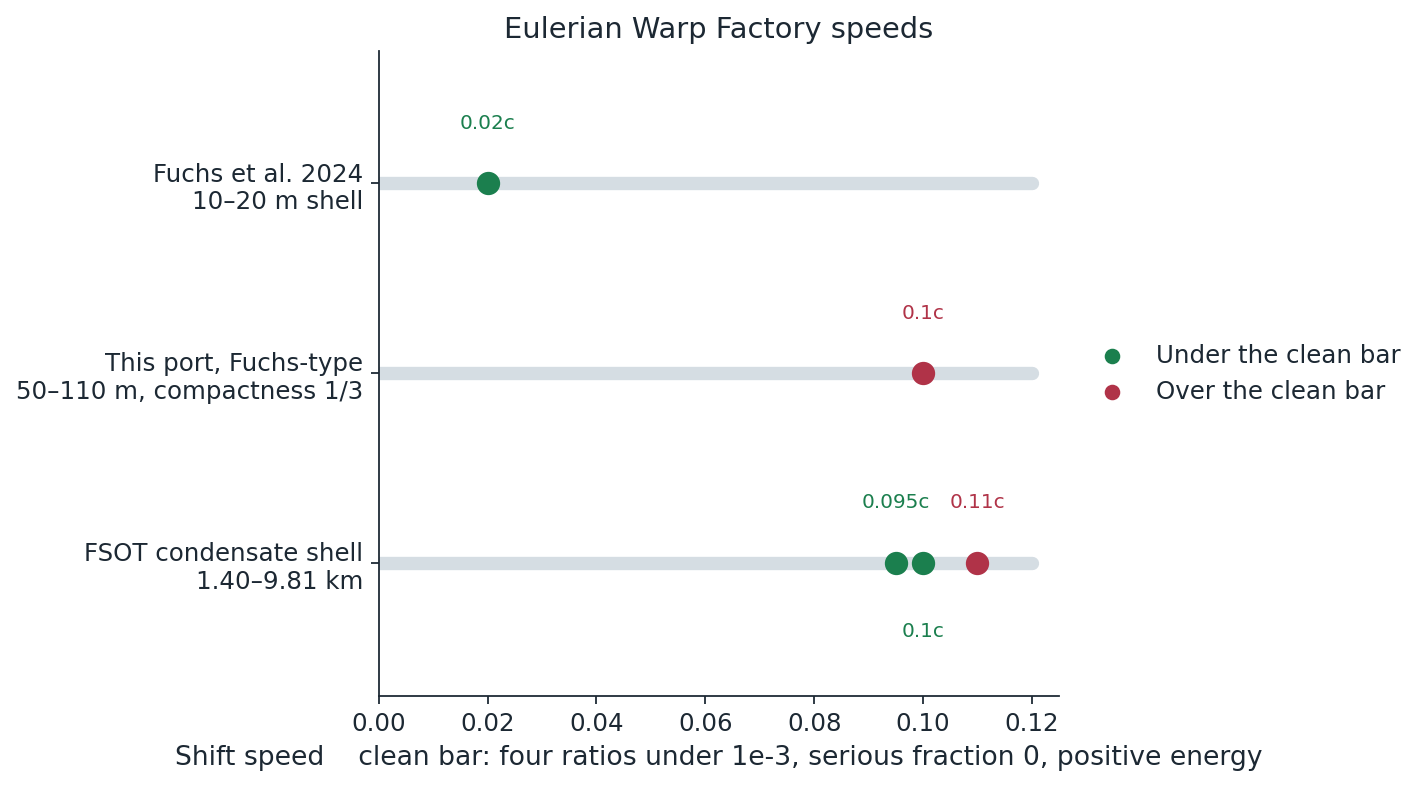
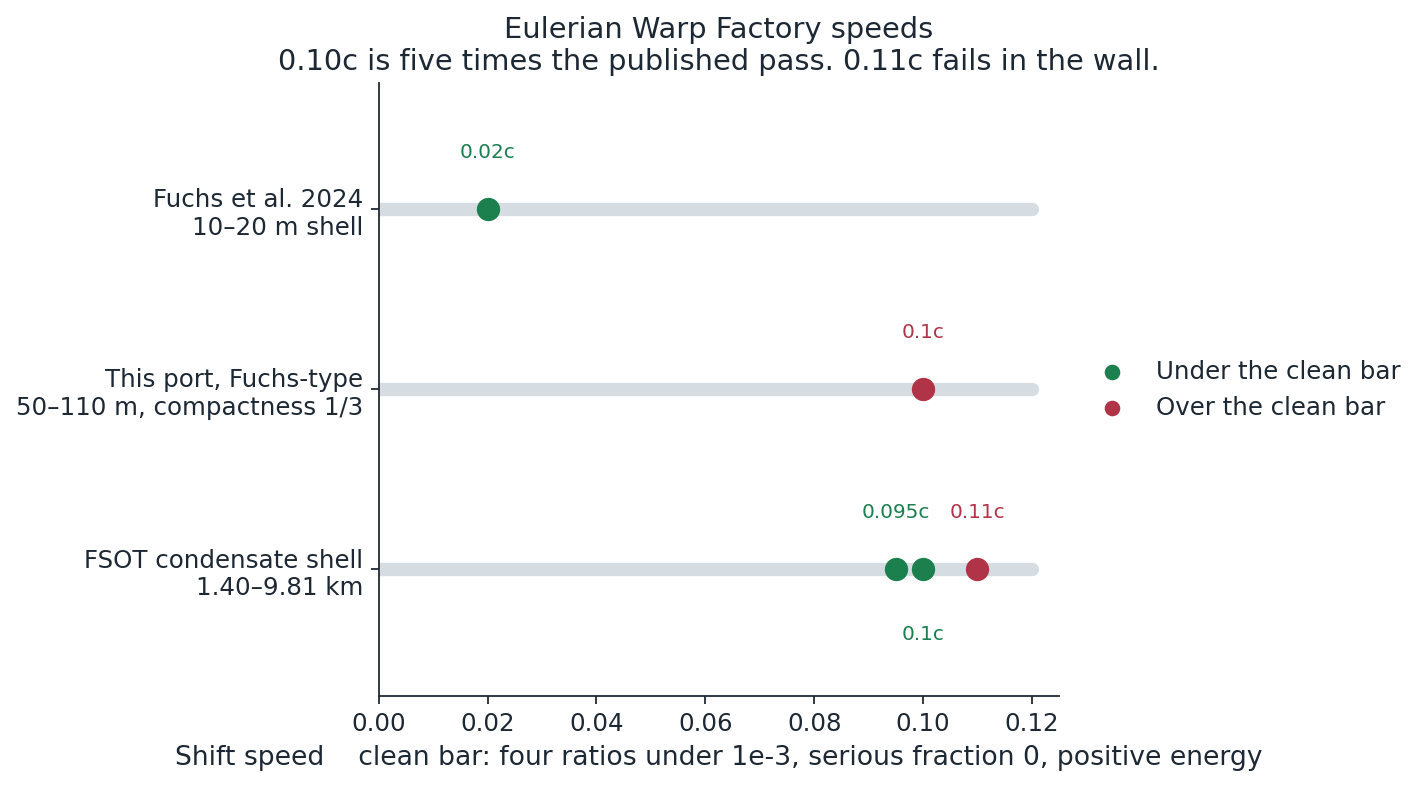
Lead the record with the 0.10c pass against the published 0.02c shell.
The 83.4 m grid agrees after the flat ball is restored. The same restoration at 0.11c still fails in the outer wall, dominant ratio 0.177 at 7,720 m.

diff --git a/python/stress_mix.py b/python/stress_mix.py
@@ -6,6 +6,7 @@ The pin check runs when FSOT_VENDOR points at a directory that contains
 fsot_compute.py and fsot_dynamics.py (the FSOT 2.1 AEB2AD vendor tree).
 The algebra, the shell file, and the two scored logs do not need it.
 data/dial_mix_fine.txt is checked as a recorded failure, not as a pass.
+data/dial_flatball_11_fine.txt is the 0.11c wall on the 83.4 m grid, also a recorded failure.
 """
 
 from __future__ import annotations
@@ -22,6 +23,7 @@ LOG = ROOT / "data" / "dial_mix.txt"
 FINE = ROOT / "data" / "dial_mix_fine.txt"
 CENTER = ROOT / "data" / "dial_center.txt"
 FLAT = ROOT / "data" / "dial_flatball.txt"
+FLAT11 = ROOT / "data" / "dial_flatball_11_fine.txt"
 C_ROUTE = 2.99792e8
 G_ROUTE = 6.674e-11
 C_WF = 2.99792458e8
@@ -170,6 +172,22 @@ def flat_log() -> None:
     check("83.4 m restores four cells", "== raw N=320 v=0.10  minWeak=-1.476078e-03 nFlat=4" in text, "dial_flatball.txt")
 
 
+def flat11_log() -> None:
+    text = FLAT11.read_text(encoding="utf-8")
+    check("0.11c fine flat ball finished", "flat ball done" in text, "dial_flatball_11_fine.txt")
+    check(
+        "83.4 m 0.11c wall is the recorded failure",
+        "null=3.549428e-02 weak=3.549428e-02 strong=3.549428e-02 dom=1.771462e-01" in text
+        and "FAIL" in text,
+        "dial_flatball_11_fine.txt",
+    )
+    check(
+        "83.4 m 0.11c restores four cells",
+        "== raw N=320 v=0.11  minWeak=-3.549428e-02 nFlat=4" in text,
+        "dial_flatball_11_fine.txt",
+    )
+
+
 def main() -> int:
     algebra()
     shell_file()
@@ -178,6 +196,7 @@ def main() -> int:
     fine_log()
     center_log()
     flat_log()
+    flat11_log()
     print(f"RESULT  {len(failures)} failures")
     return 1 if failures else 0
 

diff --git a/python/figures.py b/python/figures.py
@@ -115,7 +115,7 @@ def fig_speed():
     ax.set_xlim(0, 0.125)
     ax.set_ylim(-0.7, 2.7)
     ax.invert_yaxis()
-    ax.set_title("Eulerian Warp Factory speeds")
+    ax.set_title("Eulerian Warp Factory speeds\n0.10c is five times the published pass. 0.11c fails in the wall.")
     ax.scatter([], [], color=PASS, label="Under the clean bar")
     ax.scatter([], [], color=FAIL, label="Over the clean bar")
     ax.legend(frameon=False, loc="center left", bbox_to_anchor=(1.01, 0.5))

diff --git a/README.md b/README.md
@@ -4,13 +4,13 @@
 **License:** Apache-2.0  
 **Pin:** FSOT 2.1 AEB2AD, from [FSOT-2.1-Lean](https://github.com/dappalumbo91/FSOT-2.1-Lean)
 
-A constant-speed warp shell, scored in Warp Factory. On a 166.8 m grid the Eulerian energy conditions stay under the clean bar at **0.10c**. The published Warp Factory pass, Fuchs et al. 2024, is **0.02c** on a 10–20 m shell. This shell is 491 times larger in outer radius, 736 times heavier, and about 1.8×10⁵ times less dense.
+A constant-speed warp shell, scored in Warp Factory. The published positive-mass pass in this solver is Fuchs et al. 2024: **0.02c** on a 10–20 m shell. This condensate shell is clean at **0.10c**, five times that speed, on the 166.8 m grid and on the 83.4 m grid once the flat cavity is given its continuum value of zero. The shell is 491 times larger in outer radius, 736 times heavier, and about 1.8×10⁵ times less dense.
 
 The raw 83.4 m difference misses that bar on four samples at 59 m. Those samples sit inside a ball, r < 87.55 m, where the constructed metric is exactly flat, so the continuum stress-energy is zero. The fourth-order stencil reaches outside the ball and reports a false negative. Setting those four cells back to zero puts the 83.4 m score under the bar. The worst remaining weak ratio is 4.006×10⁻⁷, in the exterior mass skirt. The wall is quiet on both grids. This is a simulation of a coast at constant speed.
 
 ![Eulerian speeds](figures/speed_limit.png)
 
-The green marks are under the clean bar. The red marks are over it. The top row is the published pass. The middle row is a larger copy of that kind of shell, scored in this port, which fails at 0.10c. The bottom row is the FSOT condensate shell: clean at 0.095c and 0.10c, failed at 0.11c.
+The green marks are under the clean bar. The red marks are over it. The top row is the published 0.02c pass. The middle row is a larger copy of that kind of shell, scored in this port, which fails at 0.10c. The bottom row is the FSOT condensate shell: clean at 0.095c and 0.10c, failed at 0.11c. The 0.10c mark also holds on the 83.4 m grid after the flat-ball restoration.
 
 ## The shell
 
@@ -20,11 +20,11 @@ The green marks are under the clean bar. The red marks are over it. The top row 
 | Radii | 10 m to 20 m | 1.40 km to 9.81 km |
 | Mass | 4.49×10²⁷ kg | 3.303×10³⁰ kg (about 1.66 solar masses) |
 | Density | 1.53×10²³ kg/m³ | 8.37×10¹⁷ kg/m³ |
-| Clean speed | 0.02c | 0.10c on a 166.8 m grid |
+| Clean speed | 0.02c | 0.10c on 166.8 m, and on 83.4 m after the flat-ball restoration |
 | Finer grid, raw difference |  | 83.4 m, four samples at 59 m, weak ratio 1.476×10⁻³ |
 | Finer grid, flat ball restored |  | 83.4 m, weak ratio 4.006×10⁻⁷ in the exterior skirt |
 
-The clean speed on the 166.8 m grid is 5 times the published pass. Both masses are the positive mass of the shell in the metric.
+The clean speed is 5 times the published pass. A 50–110 m shell of the Fuchs type, scored in this same port at compactness 1/3, fails at 0.10c. The speed here belongs to this condensate body. Both masses are the positive mass of the shell in the metric.
 
 ![Scale](figures/scale_contrast.png)
 
@@ -50,7 +50,7 @@ Clean means all four worst/peak ratios under 1×10⁻³, serious fraction 0, pos
 
 ![Limb](figures/limb.png)
 
-At 0.11c on the same join the dominant ratio is 0.175 in the outer wall and the point fails.
+At 0.11c the dominant ratio is 0.175 on the 166.8 m grid and 0.177 on the 83.4 m grid, both in the outer wall near 7.7 km. Restoring the flat ball does not move that break.
 
 The resolution stress uses the same profile at `N = 320`, spacing 83.395 m (`data/dial_mix_fine.txt`). The raw Cartesian difference gives null 7.016×10⁻⁴, weak 1.476×10⁻³, strong 7.016×10⁻⁴, dominant 5.506×10⁻⁷. The weak ratio is the sample at 59 m, so that raw score is over the bar. Along the side ray the dominant ratio is still 0.
 
@@ -104,7 +104,7 @@ The metric score uses the Octave port of [Warp Factory](https://github.com/Nerds
 
 ## Limits
 
-The metric is a coast at constant speed. Acceleration is not in the run. The test is Warp Factory's Eulerian energy conditions, sampled on the solver's observer set. On the 166.8 m grid the 0.10c mix is under the clean bar. On the 83.4 m grid the raw difference is over the bar on four samples inside the flat ball, and the restored continuum value is under the bar. The 166.8 m grid's tight cell at 118 m sits outside that ball, where the smoothed density has already turned on, and its stencil residual remains under the bar. A stricter all-observer standard published later has not been run on this shell. 0.11c on this join fails in the outer wall, outside the flat ball.
+The metric is a coast at constant speed. Acceleration is not in the run. The test is Warp Factory's Eulerian energy conditions, sampled on the solver's observer set. On the 166.8 m grid the 0.10c mix is under the clean bar. On the 83.4 m grid the raw difference is over the bar on four samples inside the flat ball, and the restored continuum value is under the bar. The 166.8 m grid's tight cell at 118 m sits outside that ball, where the smoothed density has already turned on, and its stencil residual remains under the bar. A stricter all-observer standard published later has not been run on this shell. 0.11c on this join fails in the outer wall on both grids. The 83.4 m score is in `data/dial_flatball_11_fine.txt`: dominant ratio 0.177 at 7,720 m.
 
 ## License
 

diff --git a/docs/METHOD.md b/docs/METHOD.md
@@ -65,7 +65,7 @@ The metric shift is `g_tx = -v S(r)` along the boost direction. `v` is the reque
 
 Warp Factory builds the comoving warp-shell metric at this mass and these radii, then replaces the shift with the mix. The Eulerian null, weak, strong, and dominant maps are read on the transverse grid. A point is clean when all four worst/peak ratios are under `1e-3`, the serious fraction is 0, the integrated energy is positive, and the peak shift equals the requested speed.
 
-The scored grid at the clean point has `N = 160` and spacing `h = 166.790 m`. The same metric at `N = 320` (`h = 83.395 m`) fails the clean bar: the weak ratio at the central cavity sample is 1.476×10⁻³. That log is `data/dial_mix_fine.txt`.
+The scored grid at the clean point has `N = 160` and spacing `h = 166.790 m`. The raw Cartesian difference at `N = 320` (`h = 83.395 m`) puts the weak ratio at the central sample at 1.476×10⁻³. That log is `data/dial_mix_fine.txt`. The restored score is `data/dial_flatball.txt`. The same restoration at 0.11c is `data/dial_flatball_11.txt` on the 166.8 m grid and `data/dial_flatball_11_fine.txt` on the 83.4 m grid. Both fail in the outer wall.
 
 The center census in `data/dial_center.txt` repeats both grids with the shift amplitude set to 0. The negative cavity cells are the four diagonal samples at `r = h / √2`. With the shift off, the 83.4 m weak ratio at that sample is 1.481×10⁻³, and the weak ratio times the sample radius is 0.0886 m on the coarse grid and 0.0873 m on the fine grid. One spacing farther out, the minimum weak ratio is positive on both grids.
 
@@ -73,4 +73,4 @@ The smoothed shell density is exactly zero for r < 87.55 m, and `B = 1` on that 
 
 ## What was varied
 
-Same body, same mass, same smoother. The ordinary compact sigmoid is clean at 0.075c and fails at 0.08c on the side of the wall. The blend `s(1 + p - s)` is clean through 0.095c and fails at 0.10c on the outer limb. The mix above is clean at 0.095c and at 0.10c on the 166.8 m grid. The same mix at 0.11c fails in the outer wall. Later joins that tried to hand the tail to the sigmoid also failed, and they lost the 0.10c pass with them. On the 166.8 m grid the pass remains the mix at 0.10c. The same metric at 83.4 m fails the weak ratio at the cavity center.
+Same body, same mass, same smoother. The ordinary compact sigmoid is clean at 0.075c and fails at 0.08c on the side of the wall. The blend `s(1 + p - s)` is clean through 0.095c and fails at 0.10c on the outer limb. The mix above is clean at 0.095c and at 0.10c on the 166.8 m grid. The same mix at 0.11c fails in the outer wall. Later joins that tried to hand the tail to the sigmoid also failed, and they lost the 0.10c pass with them. The pass remains the mix at 0.10c. On the 83.4 m grid the raw center sample is over the bar, and the flat-ball restoration puts that same 0.10c metric under the bar. The 0.11c failure in the outer wall is the same break on that finer grid.

diff --git a/docs/RESULTS.md b/docs/RESULTS.md
@@ -2,6 +2,8 @@
 
 Scored in an Octave port of Warp Factory, upstream commit `03b10cb`. Date of the clean log: 2026-10-28. Pin AEB2AD.
 
+The published positive-mass pass is 0.02c. This shell is clean at 0.10c on the 166.8 m grid. The 83.4 m grid is clean at the same speed after cells inside the flat ball are restored to zero stress-energy. The 0.11c join fails in the outer wall.
+
 ## Clean point
 
 Grid spacing 166.790 m. Log `data/dial_mix.txt`.
@@ -101,3 +103,5 @@ Log `data/dial_flatball.txt`. The flat ball is r < 87.55 m. Cells inside it are 
 The corrected 0.10c line on the 83.4 m grid is null 1.971×10⁻⁷, weak 4.006×10⁻⁷, strong 1.971×10⁻⁷, dominant 5.506×10⁻⁷, serious fraction 0, energy 4.0657×10³⁰ kg, shift 0.10. The dominant ratio is the same cell the raw score already reported in the exterior. The figure is `figures/flatball.png`.
 
 The same restoration at 0.11c on the 166.8 m grid finds no cell inside the ball. The failure stays at r = 7,766.92 m, dominant ratio 0.1746, serious fraction 0.0119, energy 4.0623×10³⁰ kg. Log `data/dial_flatball_11.txt`.
+
+On the 83.4 m grid the same 0.11c join restores the four flat-ball cells and still fails. Dominant ratio 0.177 at r = 7,719.54 m, null ratio 3.549×10⁻² at r = 7,727.65 m, serious fraction 0.0111, energy 4.0628×10³⁰ kg, shift 0.11. Log `data/dial_flatball_11_fine.txt`. The wall break is stable under the finer grid.
